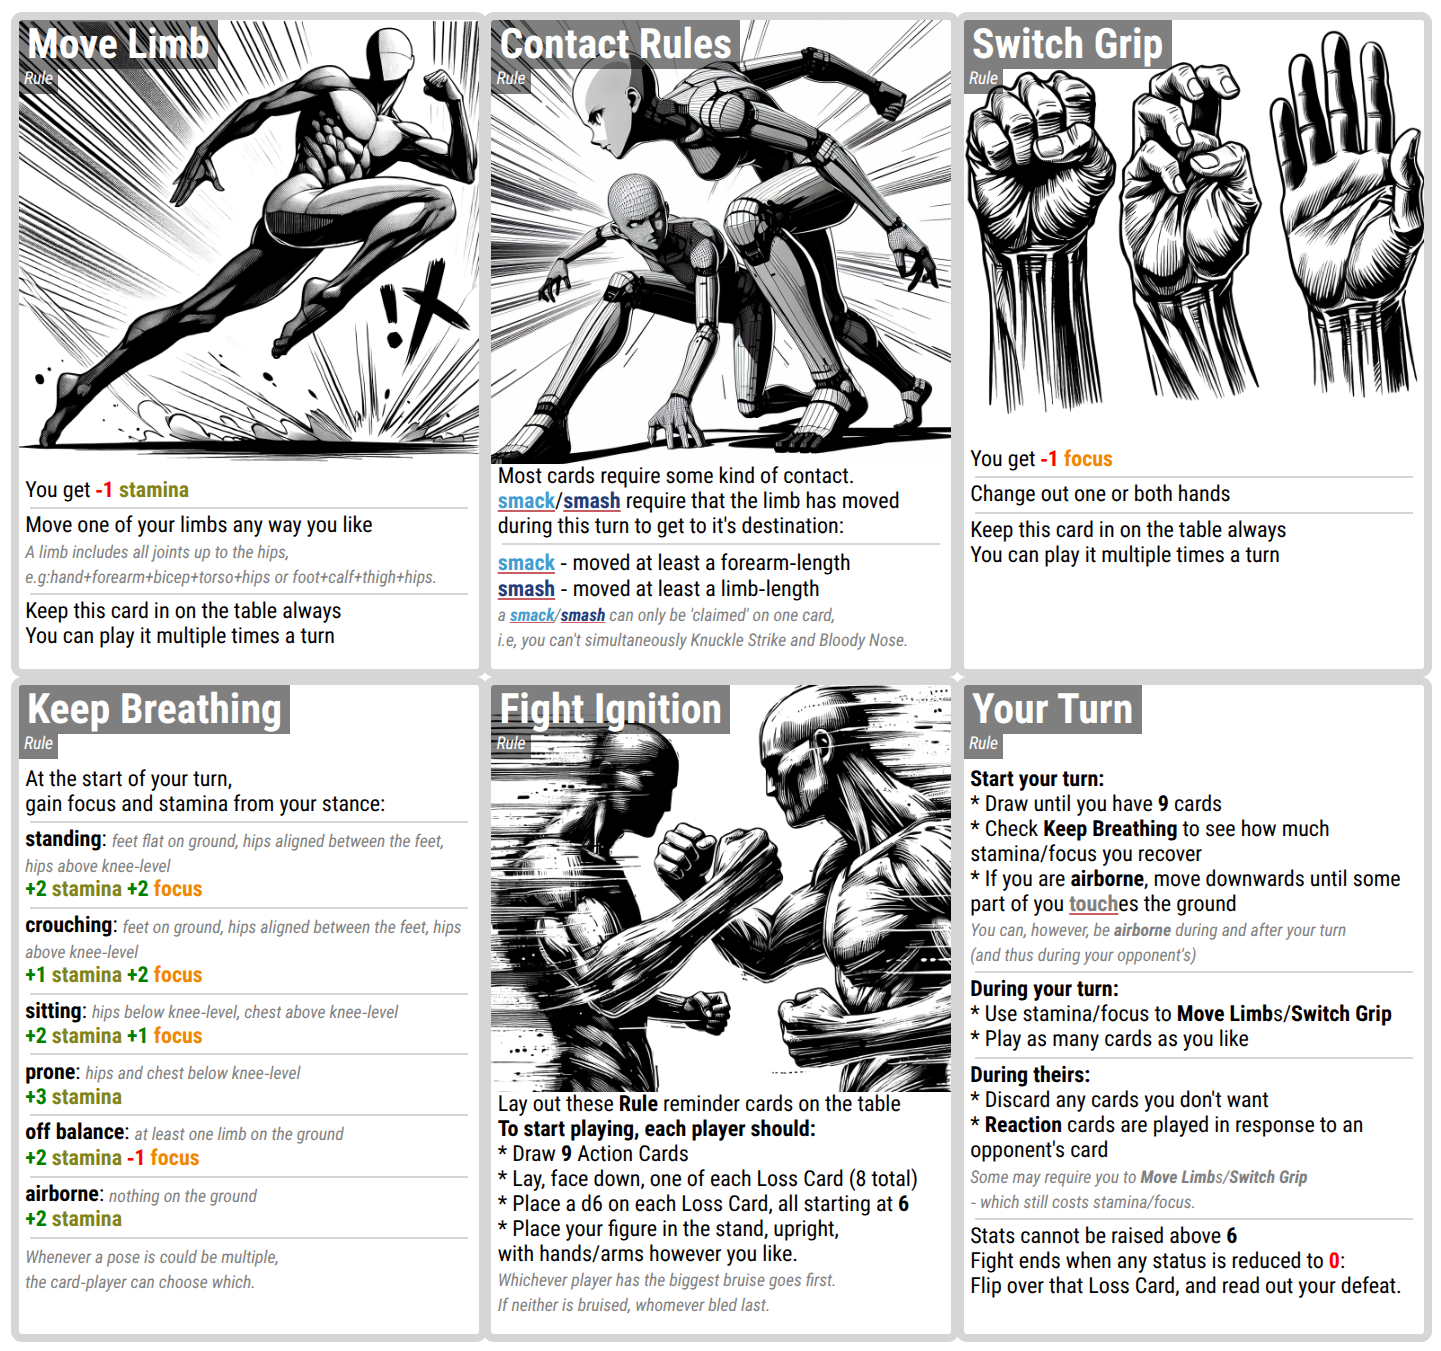
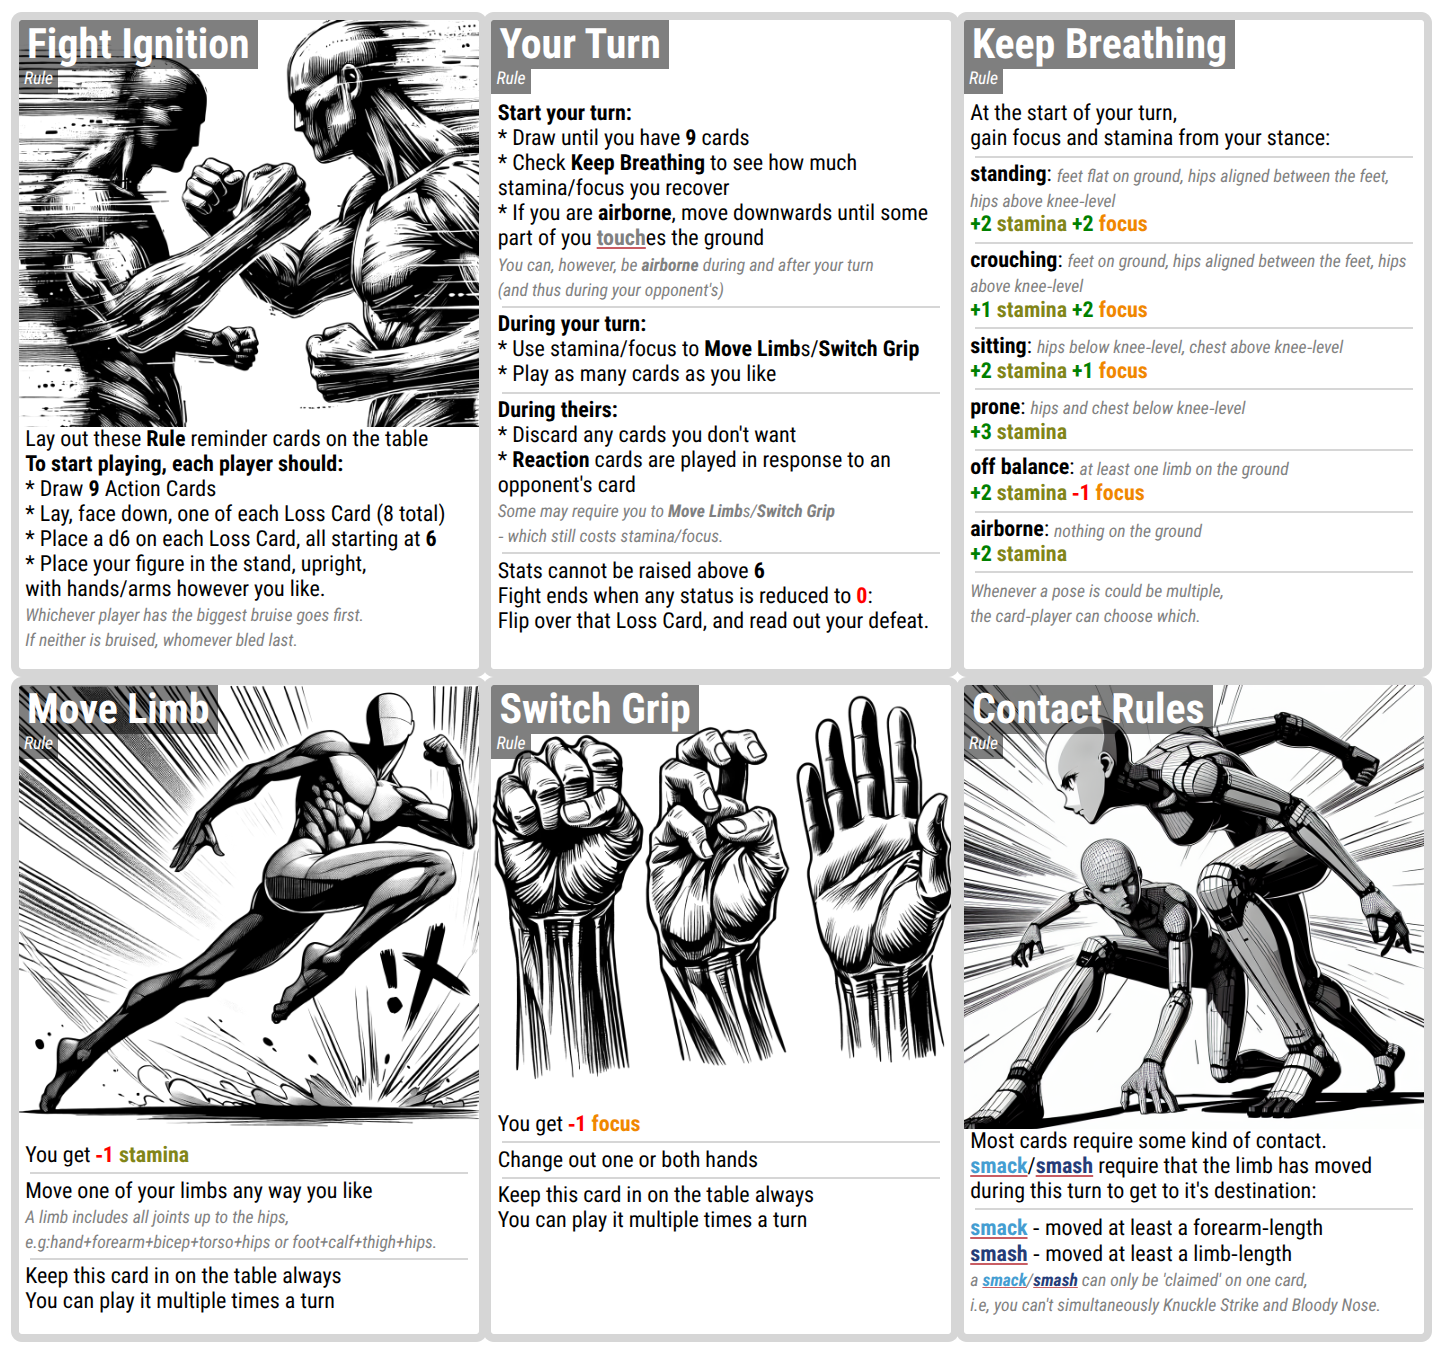
Add rule order

diff --git a/src/all_cards.py b/src/all_cards.py
@@ -1645,7 +1645,9 @@ class DeflatingGlare(Reaction):
 
 class Rule(Card, ABC):
     flavor_text = ""
+    order = 100
 class MoveLimb(Rule):
+    order = 3
     your_effects = {
         "stamina": -1,
     }
@@ -1658,6 +1660,7 @@ class MoveLimb(Rule):
         "You can play it multiple times a turn"
     )
 class ContactRules(Rule):
+    order = 5
     extra_effects = (
         "Most cards require some kind of contact. smack/smash require that "
         "the limb has moved during this turn to get to it's destination:"
@@ -1668,6 +1671,7 @@ class ContactRules(Rule):
         "i.e, you can't simultaneously Knuckle Strike and Bloody Nose.</i>"
     )
 class SwitchGrip(Rule):
+    order = 4
     your_effects = {
         "focus": -1,
     }
@@ -1677,6 +1681,7 @@ class SwitchGrip(Rule):
         "You can play it multiple times a turn"
     )
 class KeepBreathing(Rule):
+    order = 2
     extra_effects = (
         "At the start of your turn,\n"
         "gain focus and stamina from your stance:<hr>"
@@ -1685,6 +1690,7 @@ class KeepBreathing(Rule):
         "the card-player can choose which.</i>"
     )
 class FightIgnition(Rule):
+    order = 0
     from src.anubis import Anubis
     extra_effects = f"""
         Lay out these <b>Rule</b> reminder cards on the table
@@ -1698,6 +1704,7 @@ class FightIgnition(Rule):
         If neither is bruised, whomever bled last. </i>
         """
 class YourTurn(Rule):
+    order = 1
     from src.anubis import Anubis
     extra_effects = f"""
         <b> Start your turn: </b>

diff --git a/src/card.py b/src/card.py
@@ -414,10 +414,11 @@ class Card(NamedClass):
 
     @classmethod
     def rule_cards(cls):
-        return [
+        return sorted([
             ct for ct in cls.all_types.values()
             if ct.get_category() in ['Rule']
-        ]
+        ], key=lambda ct: ct.order
+        )
 
     @classmethod
     def get_hand(cls):
